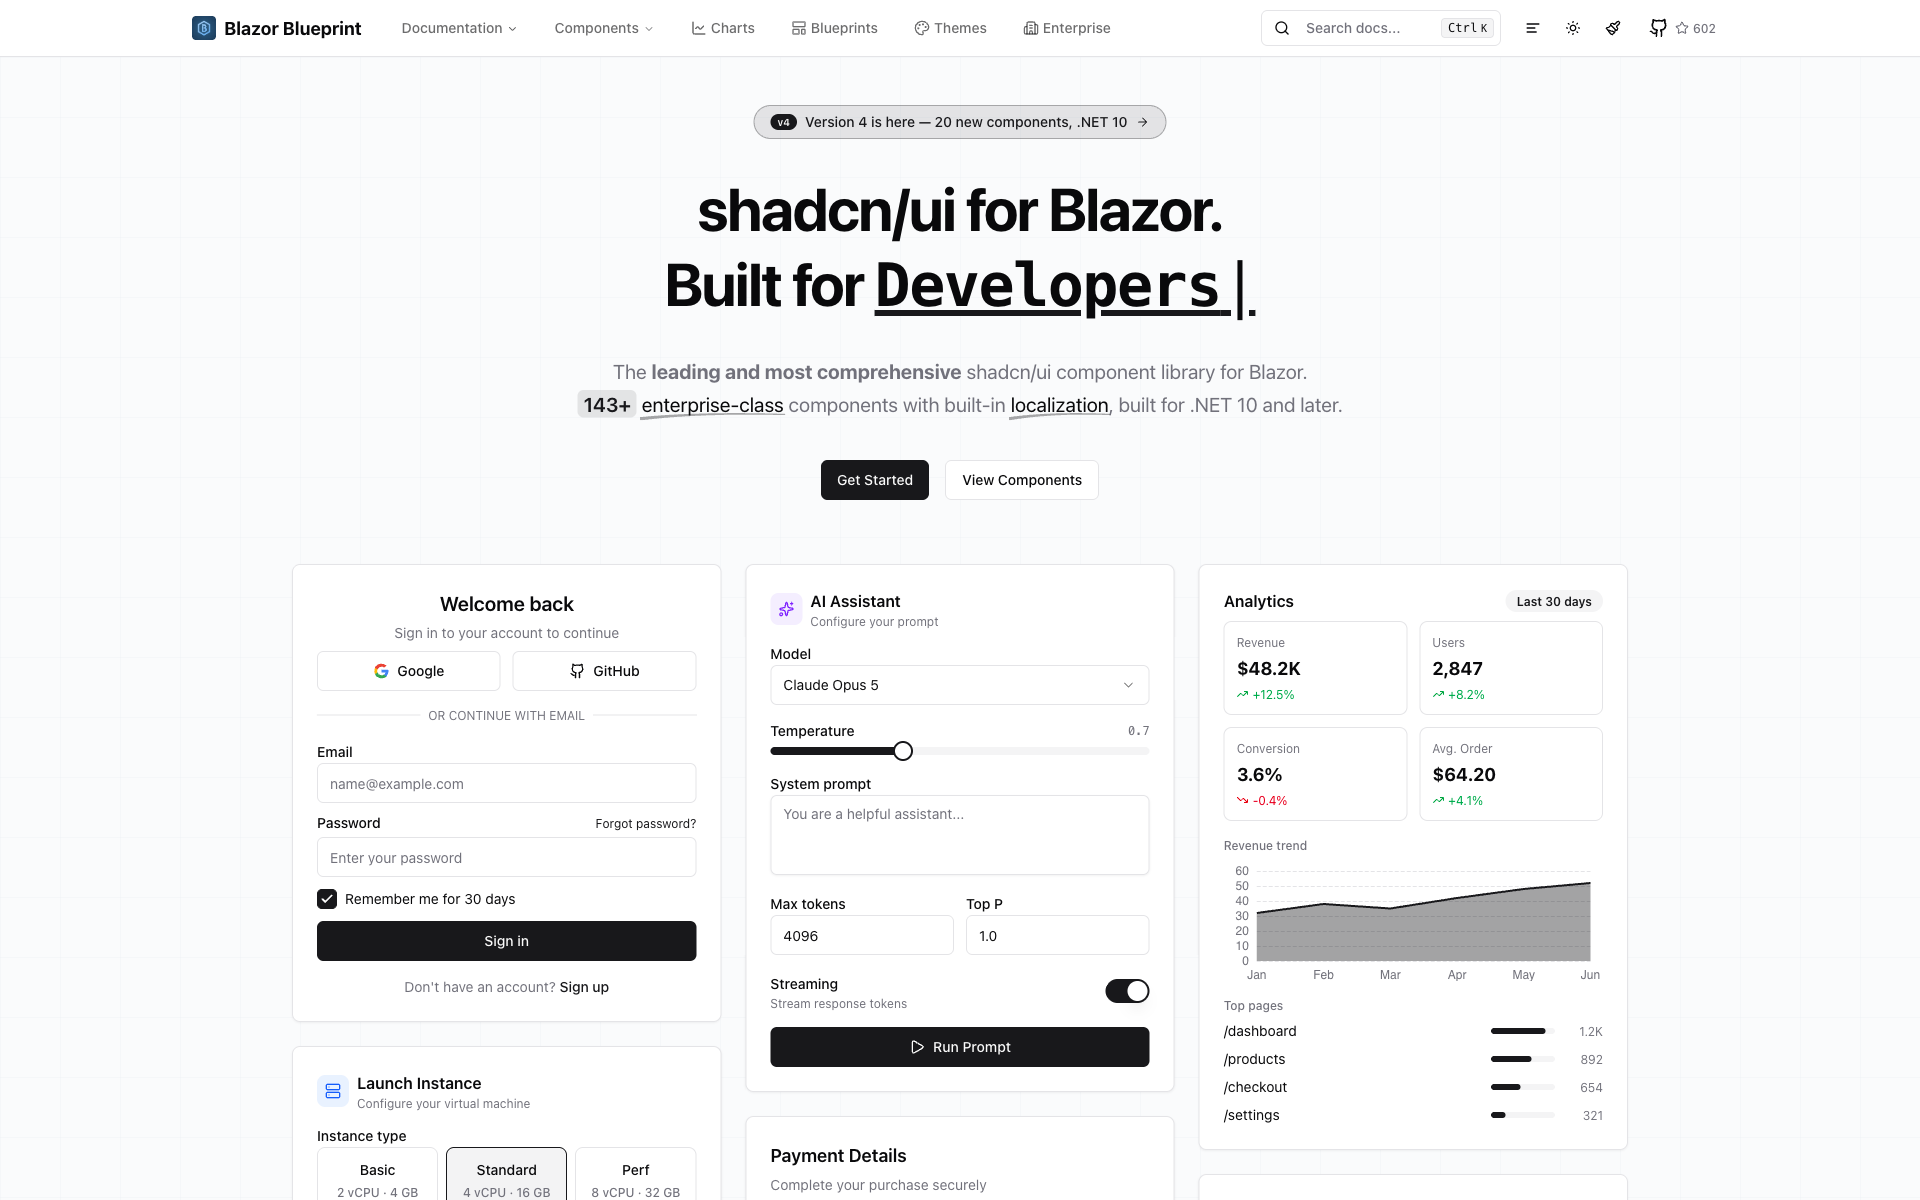
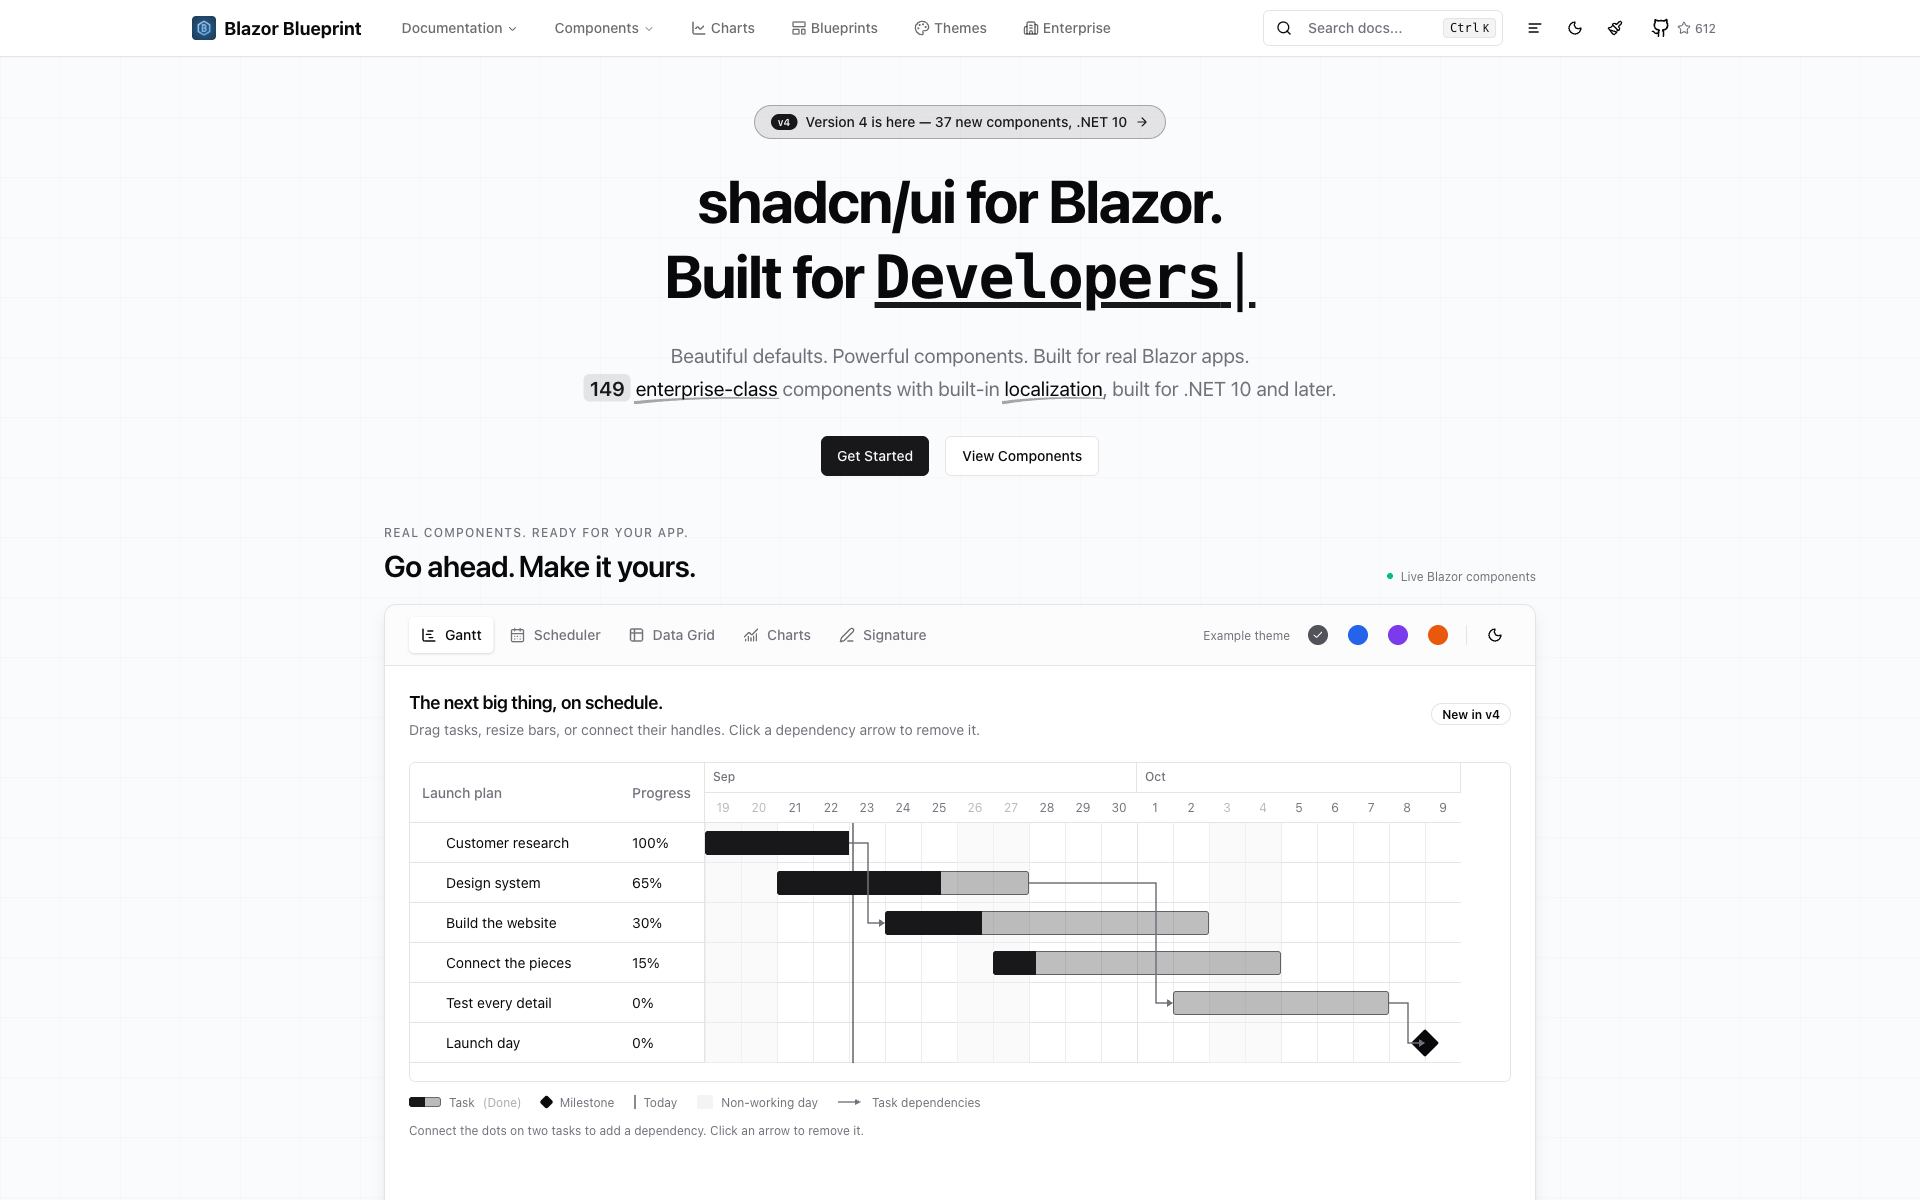
docs: update README homepage preview

diff --git a/README.md b/README.md
@@ -9,7 +9,7 @@ Beautiful UI components for Blazor, built with accessibility in mind. Inspired b
 
 <p align="center">
   <a href="https://blazorblueprintui.com">
-    <img src=".github/assets/hero.png" alt="Blazor Blueprint homepage in light mode, featuring sign-in, AI assistant, and analytics components" />
+    <img src=".github/assets/hero.png" alt="Blazor Blueprint homepage in light mode, featuring the interactive Gantt chart demo" />
   </a>
 </p>
 
